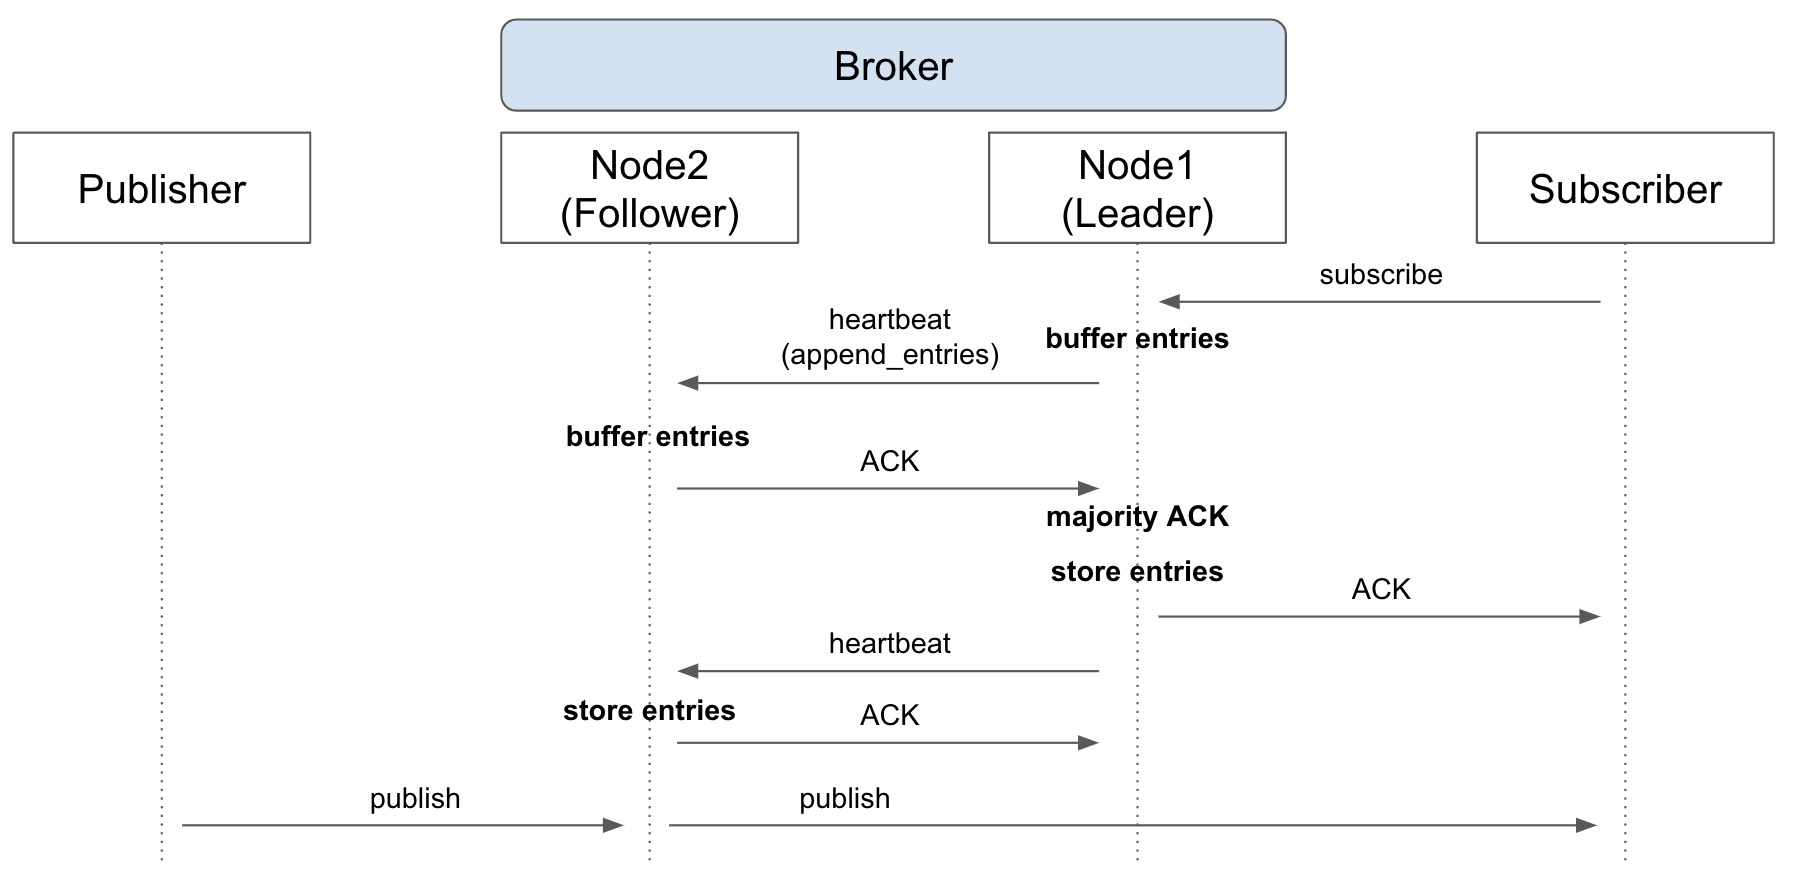
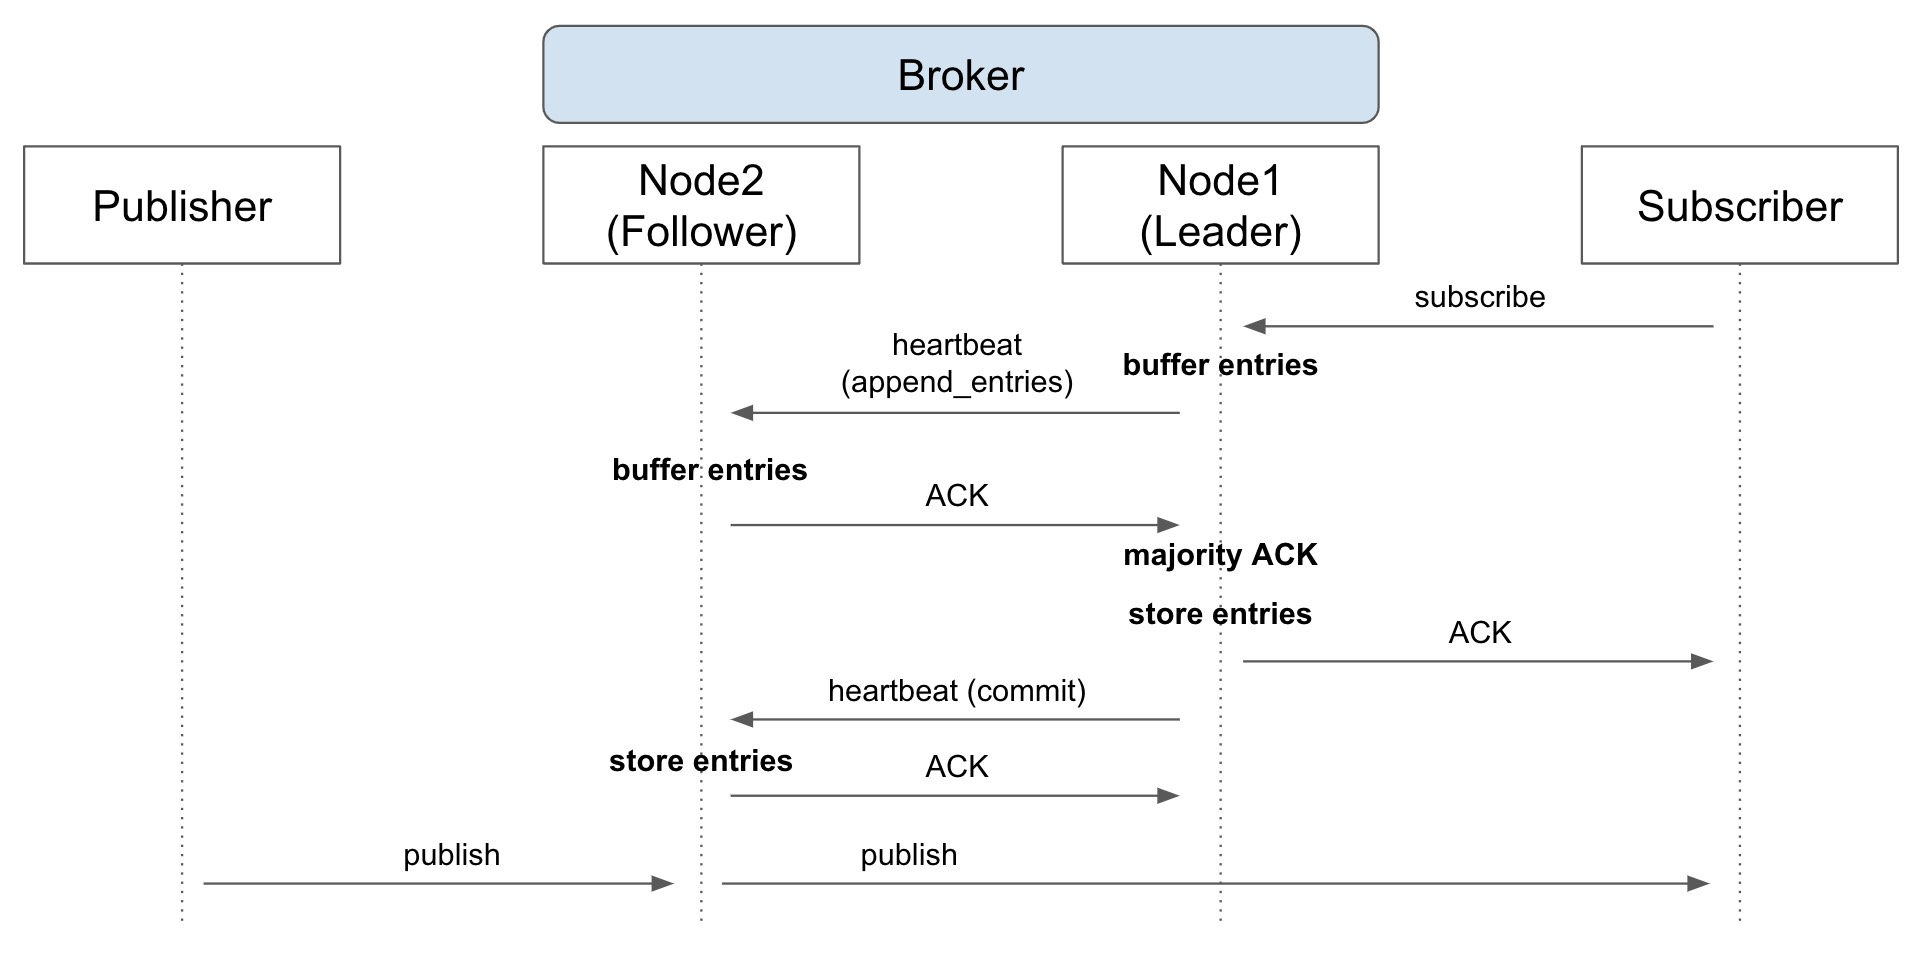
Feat/leader commit (#6)
* feat: majority ACK, send commit

* fix: test multi thread fail

* docs: log replication commit

* fix: COMMIT -> LEADER_COMMIT

* docs: 2pc

diff --git a/tests/unit/test_borker.py b/tests/unit/test_borker.py
@@ -112,11 +112,12 @@ def test_leader_election():
         broker.run()
     time.sleep(1)
 
-    assert broker1.is_leader
-    assert not broker2.is_leader
-
-    for broker in brokers:
-        broker.stop()
+    try:
+        assert broker1.is_leader
+        assert not broker2.is_leader
+    finally:
+        for broker in brokers:
+            broker.stop()
 
 
 def test_forward_leader():
@@ -142,25 +143,25 @@ def test_forward_leader():
         broker.run()
     time.sleep(1)
 
-    assert broker1.is_leader
-    assert not broker2.is_leader
-
-    # subscriber
-    topic = "topic1"
     subscriber = Subscriber(broker_host=broker2.host, broker_port=broker2.port)
-    subscriber.run()
-    subscriber.subscribe(topic)
-    time.sleep(1)
+    try:
+        assert broker1.is_leader
+        assert not broker2.is_leader
 
-    assert (subscriber.host, subscriber.port) in broker1.topic_subscribers.get(topic)
+        # subscriber
+        topic = "topic1"
+        subscriber.run()
+        subscriber.subscribe(topic)
+        time.sleep(1)
 
-    for broker in brokers:
-        broker.stop()
-    subscriber.stop()
+        assert (subscriber.host, subscriber.port) in broker1.topic_subscribers.get(topic)
+    finally:
+        for broker in brokers:
+            broker.stop()
+        subscriber.stop()
 
 
-def test_fault_tolerance(caplog):
-    caplog.set_level(logging.INFO)
+def test_fault_tolerance():
     # broker
     host_ips = [
         (BROKER_HOST, BROKER_PORT),
@@ -195,25 +196,28 @@ def test_fault_tolerance(caplog):
         broker.run()
     time.sleep(1)
 
-    assert broker1.is_leader
-    assert not broker2.is_leader
-    assert not broker3.is_leader
+    try:
+        assert broker1.is_leader
+        assert not broker2.is_leader
+        assert not broker3.is_leader
 
-    # leader fail
-    broker1.stop()
-    time.sleep(1)
+        # leader fail
+        broker1.stop()
+        time.sleep(1)
 
-    assert broker2.is_leader
-    assert not broker3.is_leader
+        assert broker2.is_leader
+        assert not broker3.is_leader
 
-    # leader fail
-    broker2.stop()
-    time.sleep(2)
+        # leader fail
+        broker2.stop()
+        time.sleep(2)
 
-    print(caplog.text)
-
-    assert broker3.is_leader
-    broker3.stop()
+        assert broker3.is_leader
+        broker3.stop()
+    finally:
+        broker1.stop()
+        broker2.stop()
+        broker3.stop()
 
 
 def test_log_replication():
@@ -246,16 +250,17 @@ def test_log_replication():
     subscriber.subscribe(topic)
     time.sleep(0.5)
 
-    assert broker1.is_leader
-    assert not broker2.is_leader
+    try:
+        assert broker1.is_leader
+        assert not broker2.is_leader
 
-    assert (subscriber.host, subscriber.port) in broker1.sync_data.get(topic)
-    assert broker1.sync_data == broker2.sync_data
-
-    # stop
-    for broker in brokers:
-        broker.stop()
-    subscriber.stop()
+        assert (subscriber.host, subscriber.port) in broker1.sync_data.get(topic)
+        assert broker1.sync_data == broker2.sync_data
+    finally:
+        # stop
+        for broker in brokers:
+            broker.stop()
+        subscriber.stop()
 
 
 def test_dynamic_membership():
@@ -266,7 +271,7 @@ def test_dynamic_membership():
         port=host_ips[0][1],
     )
     broker1.run()
-    time.sleep(0.5)
+    time.sleep(1)
 
     # subscriber
     topic = "topic1"
@@ -284,18 +289,20 @@ def test_dynamic_membership():
     broker2.run()
     time.sleep(1.5)
 
-    assert broker1.is_leader
-    assert (broker2.host, broker2.port) in broker1.peers
-    assert (broker1.host, broker1.port) in broker2.peers
+    try:
+        assert broker1.is_leader
+        assert (broker2.host, broker2.port) in broker1.peers
+        assert (broker1.host, broker1.port) in broker2.peers
 
-    assert (subscriber.host, subscriber.port) in broker1.sync_data.get(topic)
-    assert broker1.sync_data == broker2.sync_data
+        assert (subscriber.host, subscriber.port) in broker1.sync_data.get(topic)
+        assert broker1.sync_data == broker2.sync_data
 
-    # node leave
-    broker2.stop()
-    time.sleep(0.5)
-    assert (broker2.host, broker2.port) not in broker1.peers
-
-    # stop
-    broker1.stop()
-    subscriber.stop()
+        # node leave
+        broker2.stop()
+        time.sleep(0.5)
+        assert (broker2.host, broker2.port) not in broker1.peers
+    finally:
+        # stop
+        broker2.stop()
+        broker1.stop()
+        subscriber.stop()

diff --git a/src/raft.py b/src/raft.py
@@ -48,6 +48,11 @@ class BaseNode(ABC):
     def get_append_entries_for_heartbeat(self) -> Message:
         """`LogReplication` will override method for `LeaderElection` to use"""
         pass
+    
+    @abstractmethod
+    def get_leader_commit(self) -> Message:
+        """`LogReplication` will override method for `LeaderElection` to use"""
+        pass
 
     @abstractmethod
     def check_majority_append_entries(self, msg: Message, self_check=False):
@@ -208,7 +213,9 @@ class LeaderElection(BaseNode, ABC):
         while not self.stopped and self.state == NodeState.LEADER:
             with self.lock:
                 self.entry_ack_nodes = 1
-                nested_msg = self.get_append_entries_for_heartbeat()
+                nested_msg = self.get_leader_commit()
+                if not nested_msg:
+                    nested_msg = self.get_append_entries_for_heartbeat()
                 msg = Message(
                     MessageTypes.HEARTBEAT,
                     dest_host=self.host,
@@ -219,12 +226,12 @@ class LeaderElection(BaseNode, ABC):
                 )
                 for peer_host, peer_port in self.peers:
                     Thread(
-                        target=self.__deal_with_one_heartbeat,
+                        target=self.__send_one_heartbeat,
                         args=(peer_host, peer_port, msg),
                     ).start()
             time.sleep(self.HEARTBEAT_INTERVAL)
 
-    def __deal_with_one_heartbeat(
+    def __send_one_heartbeat(
         self, peer_host: str, peer_port: int, msg: Message
     ) -> None:
         """Send heartbeat to one peer
@@ -257,6 +264,7 @@ class LeaderElection(BaseNode, ABC):
             finally:
                 # check append_entries no matter ACK or remove nodes
                 if msg.nested_msg:
+                # if msg.nested_msg and msg.nested_msg.type != MessageTypes.COMMIT:
                     self.check_majority_append_entries(msg)
 
     def handle_request_to_vote(self, client_socket: socket.socket, msg: Message):
@@ -334,6 +342,17 @@ class LogReplication(BaseNode, ABC):
         self.entry_ack_nodes = 0
         # buffer queue for follower to keep entries
         self.buffer_queue: Queue[Message] = Queue()
+        self._leader_commit = None
+
+    def get_leader_commit(self):
+        """Get commit msg to send to all follower nodes that the `append_entries` can be flushed into disk"""
+        ret = self._leader_commit
+        self._leader_commit = None
+        return ret
+    
+    def set_leader_commit(self):
+        with self.lock:
+            self._leader_commit = Message(MessageTypes.LEADER_COMMIT)
 
     @abstractmethod
     def handle_append_entries(self, entry: Message):
@@ -352,14 +371,17 @@ class LogReplication(BaseNode, ABC):
 
     def on_receive_heartbeat(self, msg: Message):
         """Append entries to local when receiving a heartbeat"""
-        while not self.buffer_queue.empty():
-            # confirmation heartbeat received, empty buffer
-            self.handle_append_entries(self.buffer_queue.get())
         if msg.nested_msg:
-            # store in buffer, wait for next `heartbeat` as a confirmation
-            # similar to 2PC protocol
-            self.logger.info("Received append_entries, store in buffer")
-            self.buffer_queue.put(msg.nested_msg)
+            if msg.nested_msg.type == MessageTypes.LEADER_COMMIT:
+                self.logger.info(f"Received {msg.nested_msg.type.name}, persist data")
+                while not self.buffer_queue.empty():
+                    # confirmation received, empty buffer
+                    self.handle_append_entries(self.buffer_queue.get())
+            else:
+                # store in buffer, wait for `LEADER_COMMIT` as a confirmation
+                # similar to 2PC protocol
+                self.logger.info("Received append_entries, store in buffer")
+                self.buffer_queue.put(msg.nested_msg)
 
     def check_majority_append_entries(self, msg: Message, self_check=False):
         """For leader, if majority of peers ACK, append entries on leader node
@@ -379,6 +401,7 @@ class LogReplication(BaseNode, ABC):
                 msg, callback = self.sent_entry_queue.get()
                 if callback:
                     callback(msg)
+            self.set_leader_commit()
 
     def setup_append_entries(self, append_entries: Message, callback: Callable):
         """Setup append_entries. This message will send to peers in the next heartbeat"""

diff --git a/tests/integration/test_cluster_dynamic_membership_pub_sub.py b/tests/integration/test_cluster_dynamic_membership_pub_sub.py
@@ -32,7 +32,7 @@ def test_cluster_dynamic_membership_pub_sub(caplog):
     logging.info("\n\n==================== Broker ====================")
     for broker in brokers:
         broker.run()
-    time.sleep(2)
+    time.sleep(1.5)
 
     topic = "topic1"
     logging.info("\n\n==================== Subscribe to Node 1 ====================")
@@ -51,7 +51,7 @@ def test_cluster_dynamic_membership_pub_sub(caplog):
         election_timeout=1,
     )
     broker3.run()
-    time.sleep(2)
+    time.sleep(1.5)
 
     logging.info("\n\n==================== Publish to New Node ====================")
     # publisher
@@ -61,7 +61,7 @@ def test_cluster_dynamic_membership_pub_sub(caplog):
 
     logging.info("\n\n==================== Node Leave ====================")
     broker3.stop()
-    time.sleep(2)
+    time.sleep(1.5)
 
     # stop
     subscriber.stop()
@@ -86,6 +86,7 @@ def test_cluster_dynamic_membership_pub_sub(caplog):
 [Broker 8000 LEADER] INFO: Majority ACK, append entries
 [Broker 8000 LEADER] INFO: Handle append_entries: SUBSCRIBE on topic: `topic1` from localhost:9000
 [Subscriber 9000] INFO: Received ACK: subscribe on topic `topic1`
+[Broker 8001 FOLLOWER] INFO: Received LEADER_COMMIT, persist data
 [Broker 8001 FOLLOWER] INFO: Handle append_entries: SUBSCRIBE on topic: `topic1` from localhost:9000
 [root] INFO: 
 

diff --git a/tests/unit/test_subscribe.py b/tests/unit/test_subscribe.py
@@ -17,11 +17,11 @@ def test_subscribe():
     subscriber.subscribe(topic)
     time.sleep(0.5)
 
-    assert (subscriber.host, subscriber.port) in broker.topic_subscribers.get(topic)
-
     # stop
     broker.stop()
     subscriber.stop()
+
+    assert (subscriber.host, subscriber.port) in broker.topic_subscribers.get(topic)
 
 
 def test_unsubscribe():
@@ -37,13 +37,13 @@ def test_unsubscribe():
     subscriber.subscribe(topic)
     time.sleep(0.5)
 
-    assert (subscriber.host, subscriber.port) in broker.topic_subscribers.get(topic)
+    try:
+        assert (subscriber.host, subscriber.port) in broker.topic_subscribers.get(topic)
 
-    subscriber.unsubscribe(topic)
-    time.sleep(0.5)
-
-    assert (subscriber.host, subscriber.port) not in broker.topic_subscribers.get(topic)
-
-    # stop
-    broker.stop()
-    subscriber.stop()
+        subscriber.unsubscribe(topic)
+        time.sleep(0.5)
+        assert (subscriber.host, subscriber.port) not in broker.topic_subscribers.get(topic)
+    finally:
+        # stop
+        broker.stop()
+        subscriber.stop()

diff --git a/tests/integration/test_cluster_pub_one_sub.py b/tests/integration/test_cluster_pub_one_sub.py
@@ -81,6 +81,7 @@ def test_cluster_pub_one_pub(caplog):
 [Broker 8000 LEADER] INFO: Majority ACK, append entries
 [Broker 8000 LEADER] INFO: Handle append_entries: SUBSCRIBE on topic: `topic1` from localhost:9000
 [Subscriber 9000] INFO: Received ACK: subscribe on topic `topic1`
+[Broker 8001 FOLLOWER] INFO: Received LEADER_COMMIT, persist data
 [Broker 8001 FOLLOWER] INFO: Handle append_entries: SUBSCRIBE on topic: `topic1` from localhost:9000
 [root] INFO: 
 

diff --git a/src/utils.py b/src/utils.py
@@ -26,6 +26,7 @@ class MessageTypes(str, Enum):
     VOTE = "vote"
     JOIN_CLUSTER = "join_cluster"
     SYNC_DATA = "sync_data"
+    LEADER_COMMIT = "leader_commit"
 
 
 class Message:

diff --git a/README.md b/README.md
@@ -20,8 +20,10 @@ In this demo, the following mechanisms are implemented: leader election, log rep
 ### Log Replication
 - An update request (Subscribe/Unsubscribe) is forwarded to the leader.
 - The leader sends `append entries` messages to all followers along with heartbeats.
-- When the majority of followers acknowledge (`ACK`) the `append entries` message, the leader appends the entries locally.
-- Followers update their local entries upon receiving the next heartbeat after the `append entries` message.
+- When the majority of followers acknowledge (`ACK`) the `append entries` message, the leader appends the entries locally and sends `LEADER_COMMIT` to all followers.
+- Followers update their local entries upon receiving `LEADER_COMMIT` from the leader.
+
+Note: The idea is similar to two-phase commit (2PC) protocol.
 
 ### Dynamic Membership
 #### Join
